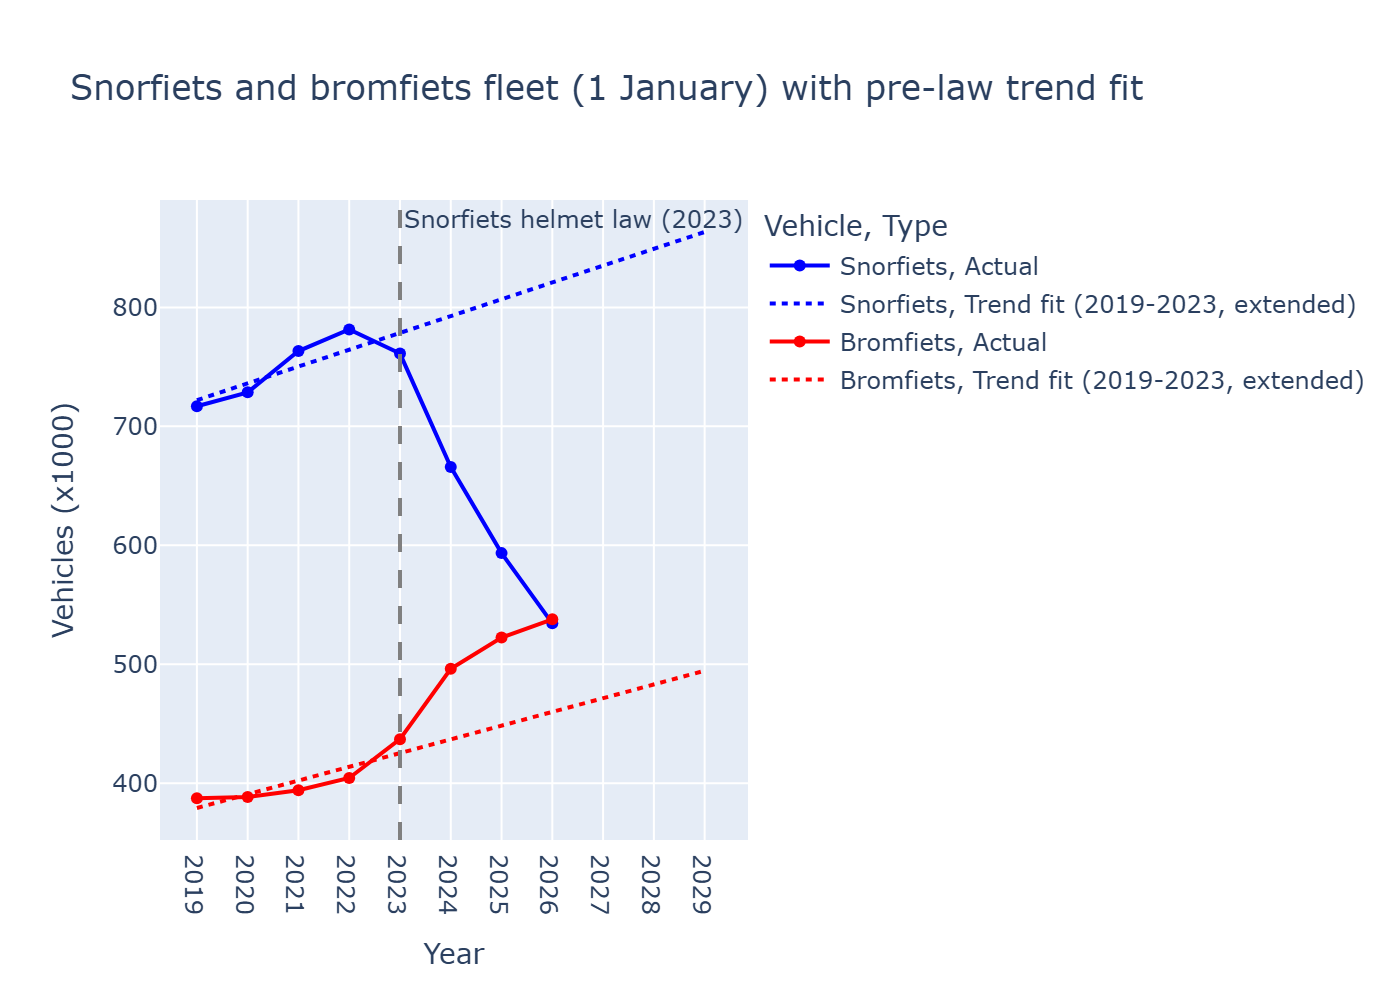
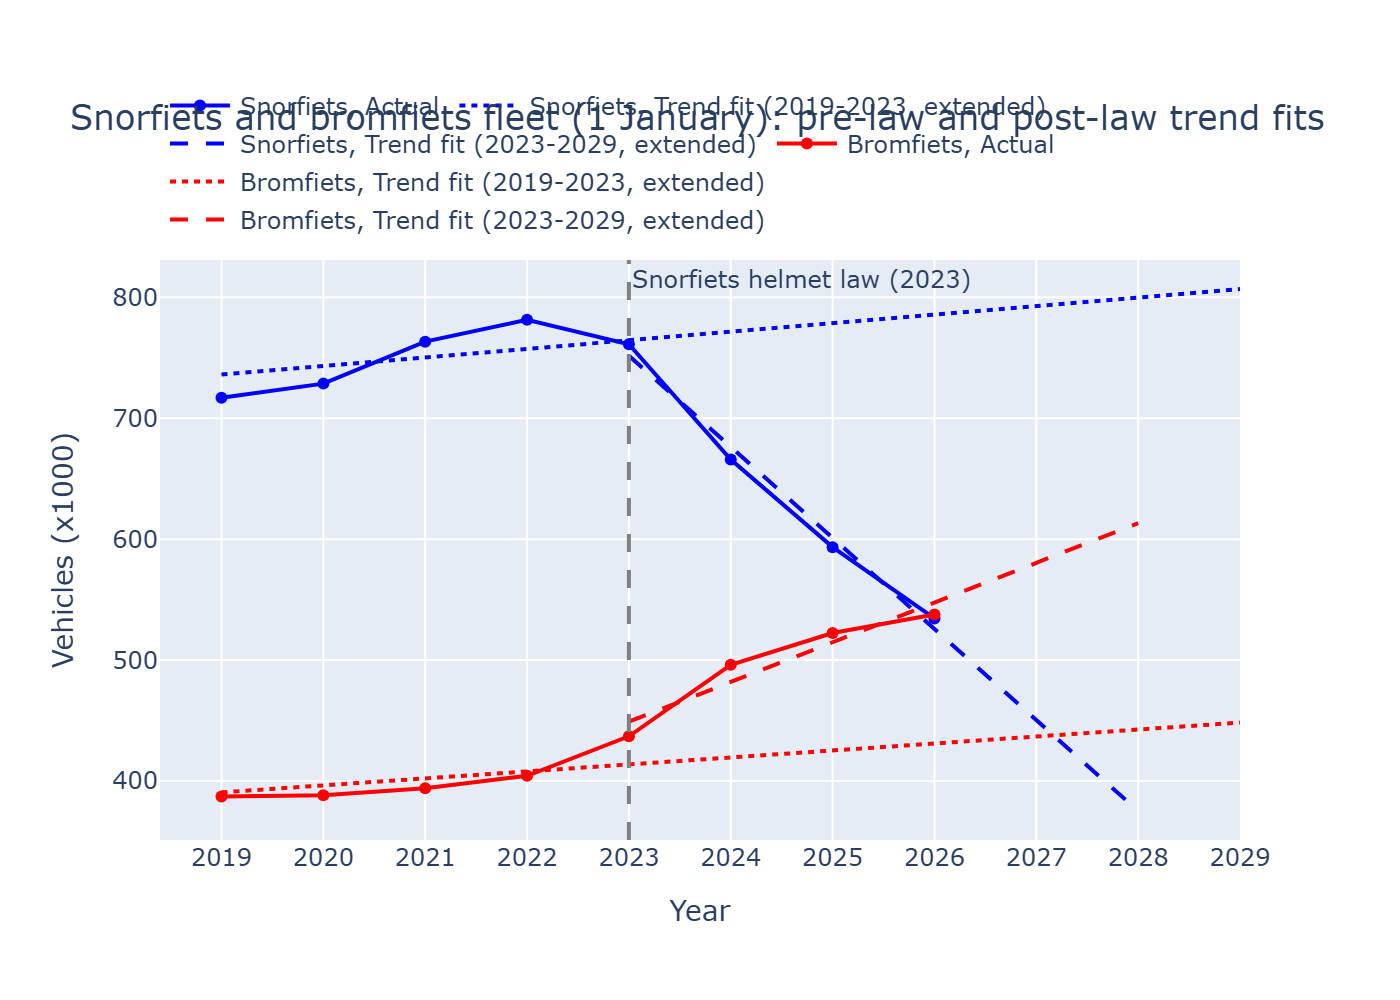
In between brake

diff --git a/code/Question2_Mandatory_Helmet_Teens_prediction.py b/code/Question2_Mandatory_Helmet_Teens_prediction.py
@@ -37,12 +37,12 @@ from pathlib import Path
 
 # ---------------------- Settings (change these to run sensitivity checks) ---------------------- #
 Snorfiets_Wetgeving_Ingang  = 2023              # national helmet obligation for snorfiets
-Start_Fit, End_Fit          = 2019, 2023        # "pre-law" window used for the trend fits
+Start_Fit                   = 2019              # 
 Covid                       = []                # e.g. [2020, 2021] to leave out the COVID years
 End_Year                    = 2029              # end of the prediction horizon
 Start_Law                   = 2027 #+ 8 / 12    # planned: 1 September 2027
 Survey_Moment               = 0.5               # treat each e-bike survey year as measured mid-year
-
+Pre_Flatten                 = 0.5               # 1 = normal least-squares slope, 0 = flat line at the window mean
 
 # ---------------------- Load the data ---------------------- #
 moped_possesion = pd.read_csv(
@@ -62,40 +62,61 @@ ebike_filtered = (ebike_minors[ebike_minors["soort_fiets"] == "elektrisch"]
 # Used Claude in determining how to read the data
 
 
-# ---------------------- Helper: linear trend fit ---------------------- #
+# ---------------------- Linear trend fit ---------------------- #
 
-def linear_fit(years, values, exclude=()):
+def linear_fit(years, values, exclude=(), flatten=1.0):
     """Least-squares line through (years, values); returns slope, intercept."""
     years  = np.asarray(years,  dtype=float)
     values = np.asarray(values, dtype=float)
     keep   = ~np.isin(years, list(exclude))
     slope, intercept = np.polyfit(years[keep], values[keep], 1)
+    if flatten !=1.0:
+        x0, y0 = years[keep].mean(), values[keep].mean()
+        slope *= flatten
+        intercept = y0 - slope *x0
     return slope, intercept
 
 
 
 # ----------------------  Graph 1: snorfiets and bromfiets + trend fits ---------------------- #
 
-pre_law     = moped_possesion_filtered[moped_possesion_filtered["Jaar"].between(Start_Fit, End_Fit)]
-years_all   = np.arange(Start_Fit, End_Year + 1)
-Trend = f"Trend fit ({Start_Fit}-{End_Fit}, extended)"
+pre_law     = moped_possesion_filtered[moped_possesion_filtered["Jaar"].between(Start_Fit, Snorfiets_Wetgeving_Ingang)]
+post_law    = moped_possesion_filtered[moped_possesion_filtered["Jaar"] >= Snorfiets_Wetgeving_Ingang]
 
-fits   = {}
+years_all   = np.arange(Start_Fit, End_Year + 1)
+years_Pre   = np.arange(Start_Fit, Snorfiets_Wetgeving_Ingang +1)
+years_after = np.arange(Snorfiets_Wetgeving_Ingang, End_Year)
+
+Trend_pre       = f"Trend fit ({Start_Fit}-{Snorfiets_Wetgeving_Ingang}, extended)"
+Trend_after     = f"Trend fit ({Snorfiets_Wetgeving_Ingang}-{End_Year}, extended)"
+
+
+pre_fits    = {}
+post_fits   = {}
 frames = []
 for vehicle in ["Snorfiets", "Bromfiets"]:
-    slope, intercept = linear_fit(pre_law["Jaar"], pre_law[vehicle], Covid)
-    fits[vehicle] = (slope, intercept)
+    pre_fits[vehicle]  = linear_fit(pre_law["Jaar"], pre_law[vehicle], Covid, flatten=Pre_Flatten)
+    post_fits[vehicle] = linear_fit(post_law["Jaar"], post_law[vehicle])
+    slope_pre,  icpt_pre  = pre_fits[vehicle]
+    slope_post, icpt_post = post_fits[vehicle]
 
     frames.append(pd.DataFrame({
         "Year": moped_possesion_filtered["Jaar"],
         "Vehicles (x1000)": moped_possesion_filtered[vehicle],
         "Vehicle": vehicle,
         "Type": "Actual"}))
+
     frames.append(pd.DataFrame({
         "Year": years_all,
-        "Vehicles (x1000)": slope * years_all + intercept,
+        "Vehicles (x1000)": slope_pre * years_all + icpt_pre,
         "Vehicle": vehicle,
-        "Type": Trend}))
+        "Type": Trend_pre}))
+
+    frames.append(pd.DataFrame({
+        "Year": years_after,
+        "Vehicles (x1000)": slope_post * years_after + icpt_post,
+        "Vehicle": vehicle,
+        "Type": Trend_after}))
 
 df_moped = pd.concat(frames, ignore_index=True)
 
@@ -103,22 +124,31 @@ fig1 = px.line(
     df_moped, x="Year", y="Vehicles (x1000)",
     color="Vehicle", line_dash="Type", markers=True,
     color_discrete_map={"Snorfiets": "blue", "Bromfiets": "red"},
-    line_dash_map={"Actual": "solid", Trend: "dot"},
-    title="Snorfiets and bromfiets fleet (1 January) with pre-law trend fit")
+    line_dash_map={"Actual": "solid", Trend_pre: "dot", Trend_after: "dash"},
+    title="Snorfiets and bromfiets fleet (1 January): pre-law and post-law trend fits")
 fig1.for_each_trace(lambda t: t.update(mode="lines") if "Trend" in t.name else None)
 fig1.add_vline(x=Snorfiets_Wetgeving_Ingang, line_dash="dash", line_color="grey",
                annotation_text=f"Snorfiets helmet law ({Snorfiets_Wetgeving_Ingang})")
 fig1.update_xaxes(dtick=1)
 
+fig1.update_layout(
+    legend=dict(
+        orientation="h",      # horizontal, so it spreads across the top
+        yanchor="bottom",
+        y=1.02,               # just above the plot area
+        xanchor="left",
+        x=0,
+        title_text=""),       # removes the "Vehicle, Type" legend title
+    margin=dict(t=130))       # extra room at the top for the title and legend
 
 # ----------------------  Law effect from the snorfiets data  ---------------------- #
 #    effect(t) = 1 - actual / trend-without-law, t = years since the law
 #    (counts are on 1 January, so 2024 = one year after the 2023 law)
 
-snor = moped_possesion_filtered.set_index("Jaar")["Snorfiets"]
-slope_s, intercept_s = fits["Snorfiets"]
-gap = 1 - snor / (slope_s * snor.index + intercept_s)
-post = gap[gap.index > Snorfiets_Wetgeving_Ingang]
+snor    = moped_possesion_filtered.set_index("Jaar")["Snorfiets"]
+slope_s, intercept_s = pre_fits["Snorfiets"]          # was: fits["Snorfiets"]
+gap     = 1 - snor / (slope_s * snor.index + intercept_s)
+post    = gap[gap.index > Snorfiets_Wetgeving_Ingang]
 
 effect_t = np.concatenate([[0], (post.index - Snorfiets_Wetgeving_Ingang).to_numpy()])
 effect_v = np.concatenate([[0], post.to_numpy()])
@@ -164,7 +194,15 @@ fig2.for_each_trace(lambda t: t.update(mode="lines") if t.name != OBS else None)
 fig2.add_vline(x=Start_Law, line_dash="dash", line_color="grey")
                #annotation_text="Planned helmet law (Sep 2027)")
 fig2.update_xaxes(dtick=1)
-
+fig2.update_layout(
+    legend=dict(
+        orientation="h",      # horizontal, so it spreads across the top
+        yanchor="bottom",
+        y=1.02,               # just above the plot area
+        xanchor="left",
+        x=0,
+        title_text=""),       # removes the "Vehicle, Type" legend title
+    margin=dict(t=130))       # extra room at the top for the title and legend
 print("\nE-bike scenario (% of cycling 12-17 year-olds):")
 print(pd.DataFrame({"Year": years_e, "No law": baseline.round(1),
                     "With law": with_law.round(1)}).tail(5).to_string(index=False))
